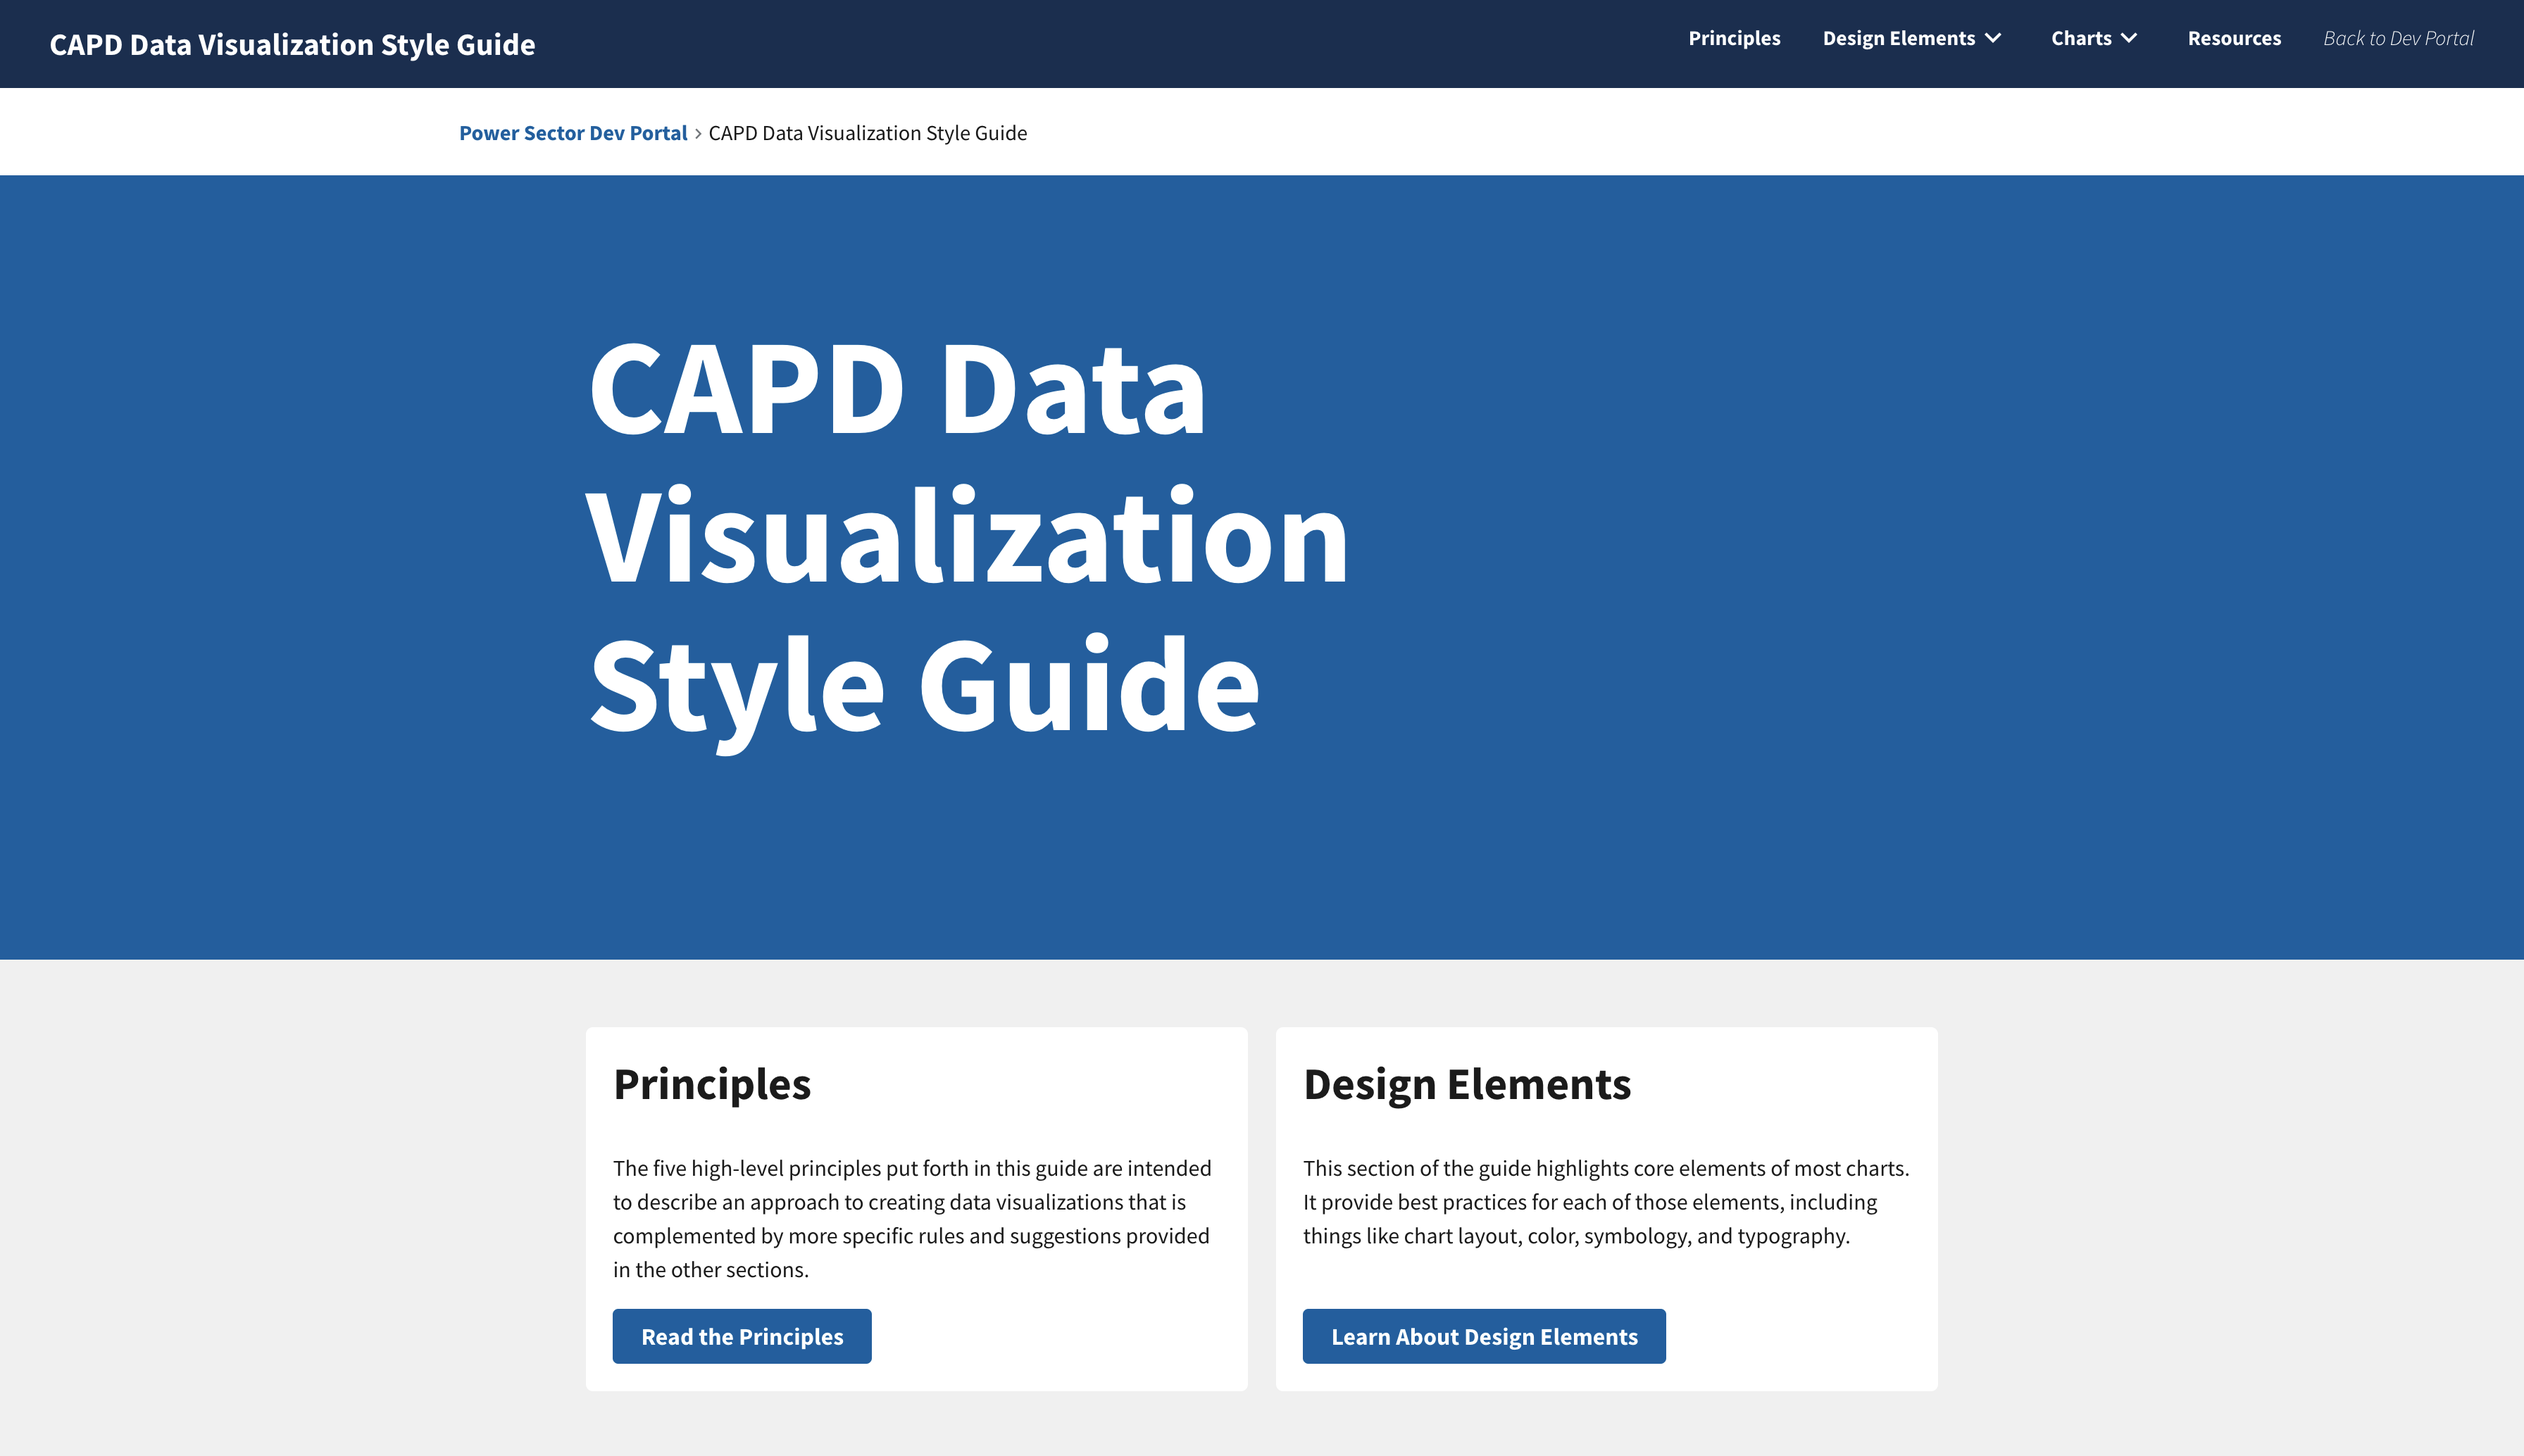
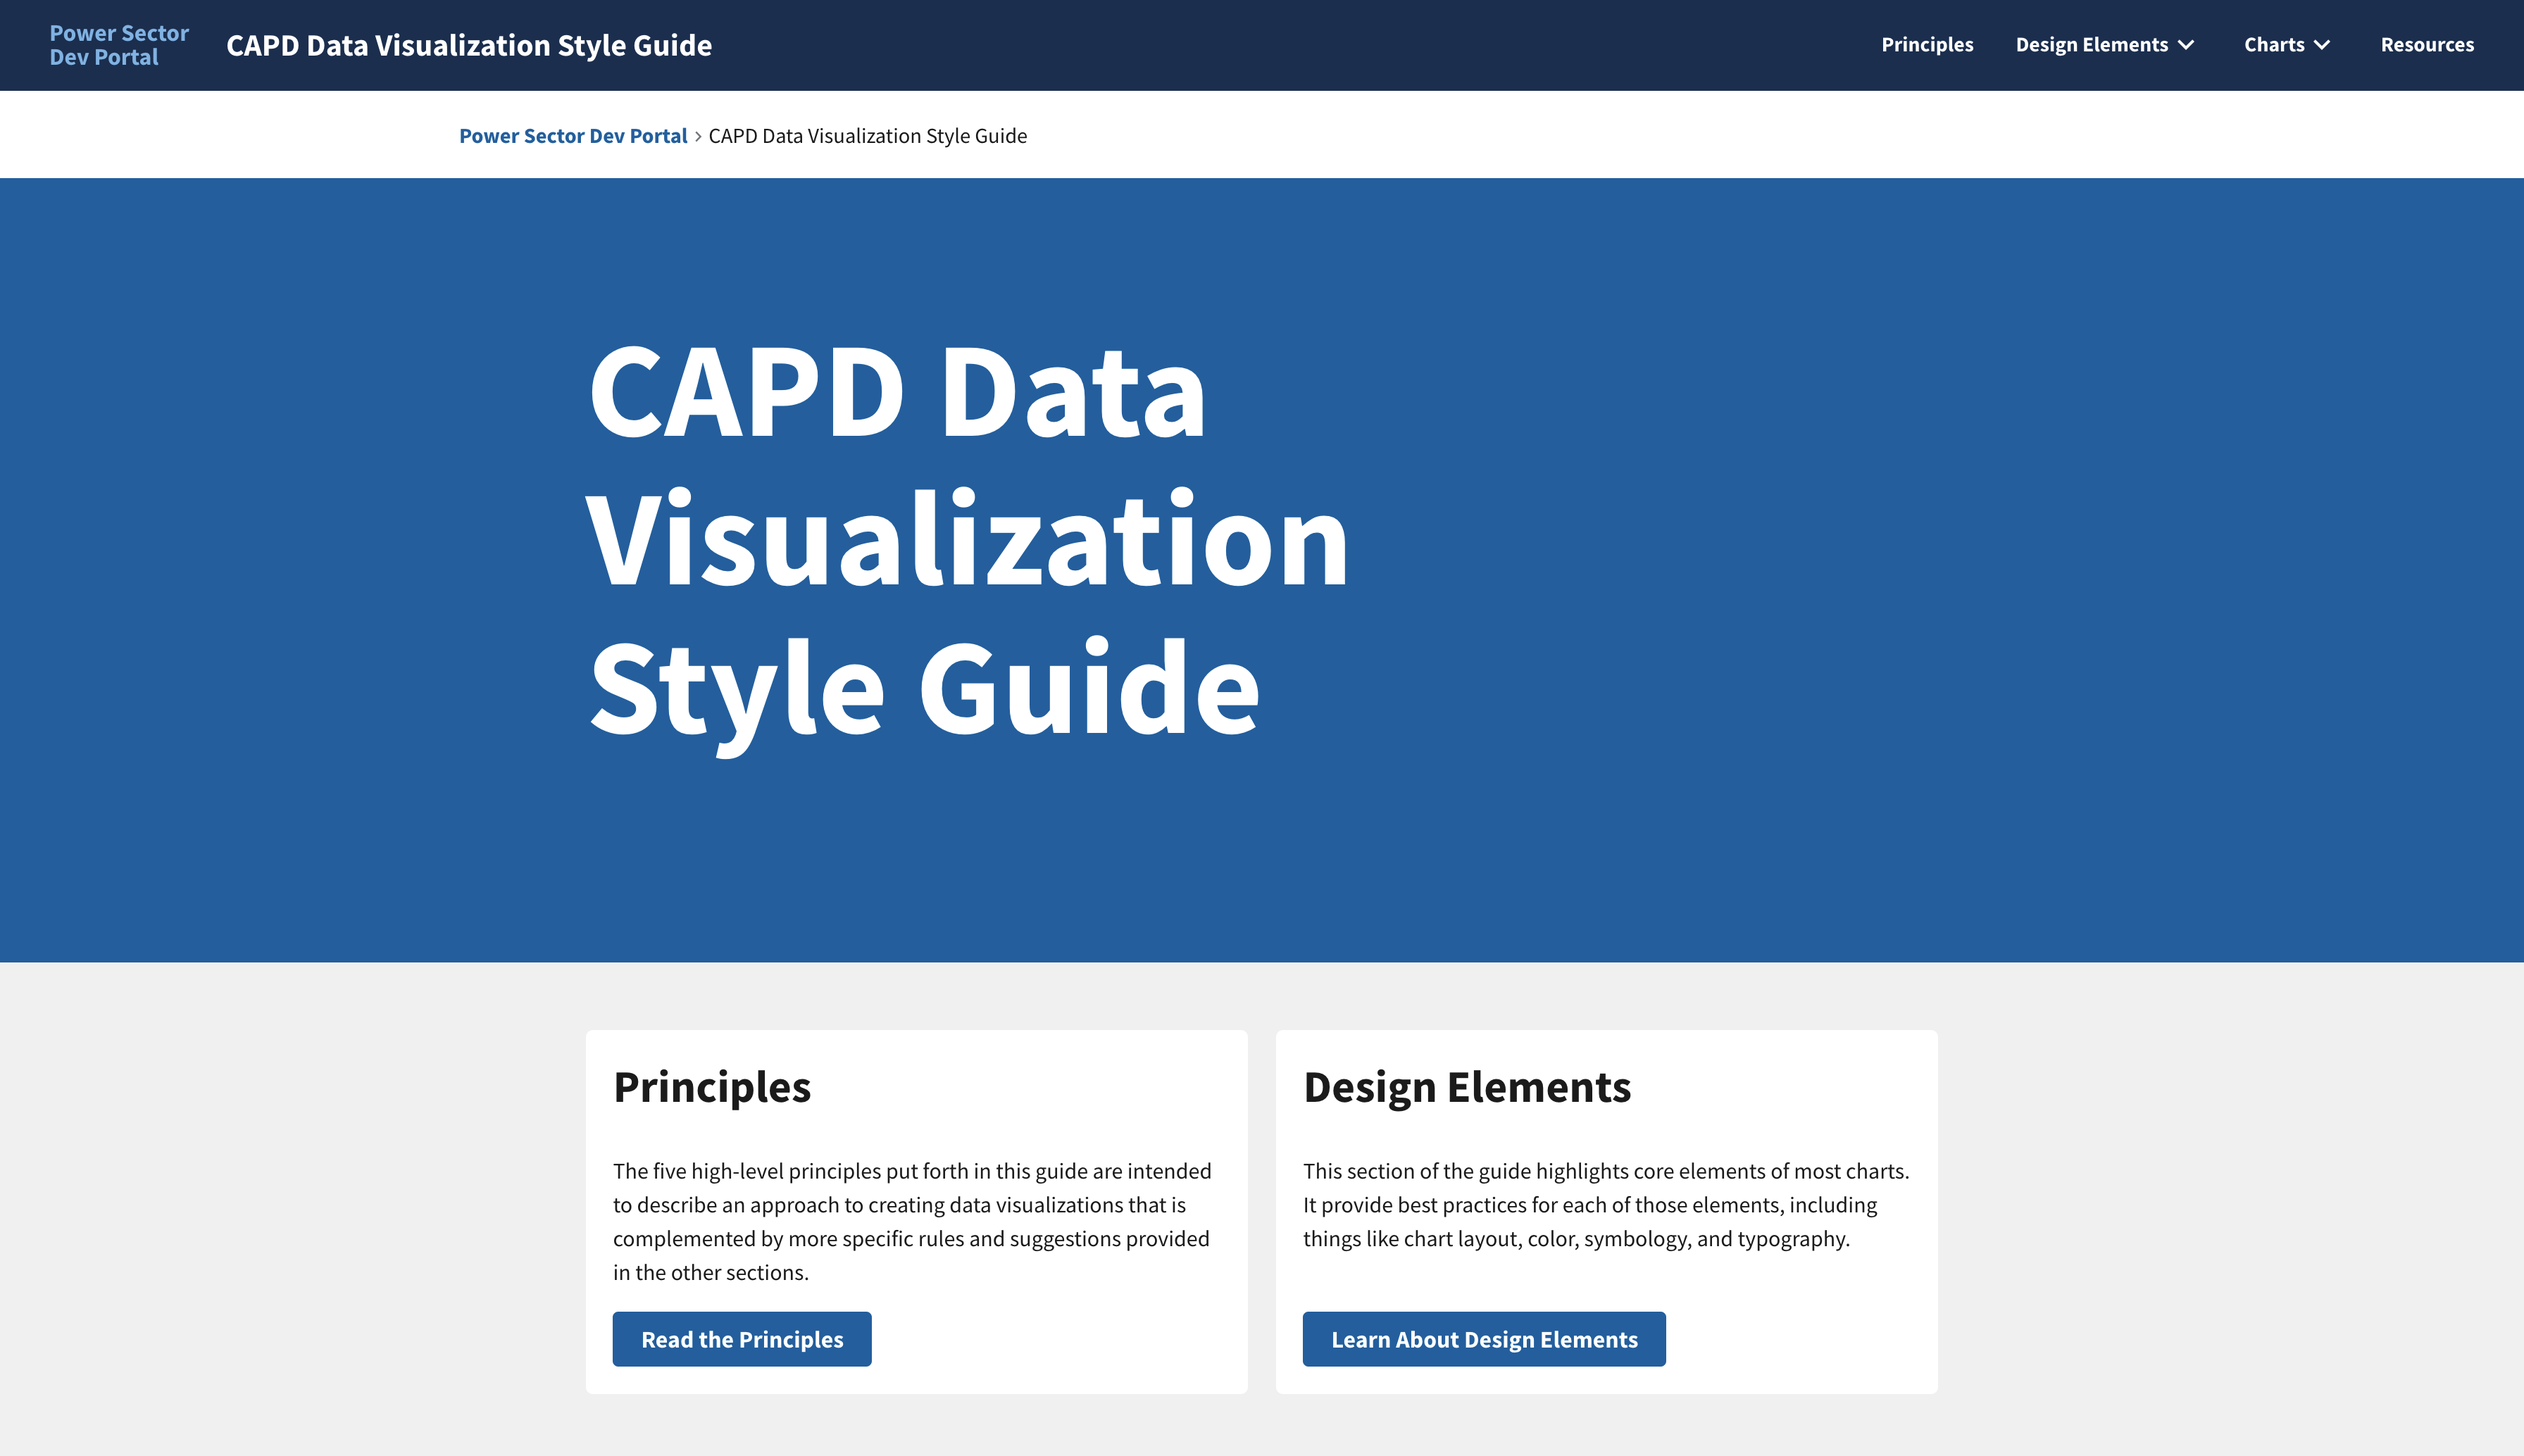
Updates DVSG screenshots

diff --git a/dvsg_case_study.html b/dvsg_case_study.html
@@ -174,8 +174,11 @@
                     <img class="scrollimage" src="css/DVSG_lines.png" alt="a screenshot showing the DVSG site's Line Charts page, showing best practices for labeling lines and using color in a line chart" onclick="window.open(this.src, '_blank');">
                     <p class="caption">This screenshot shows the Examples of Best Practices section of the Line Charts page.</p>
 
-                    <img class="scrollimage" src="css/DVSG_fuel_types.png" alt="a screenshot showing the DVSG's Color page, specifically showing a variety of categorical palettes for fuel types" onclick="window.open(this.src, '_blank');">
+                    <img class="scrollimage" src="css/DVSG_colors.png" alt="a screenshot showing the DVSG's Color page, specifically showing a variety of categorical palettes for fuel types" onclick="window.open(this.src, '_blank');">
                     <p class="caption">This screenshot shows the various color palettes we developed for commonly used fuel types.</p>
+
+                    <img class="scrollimage" src="css/DVSG_design_elem.png" alt="a screenshot showing the DVSG site's Design Elements page, showing options to learn about color, typography, symbology, and chart layout" onclick="window.open(this.src, '_blank');">
+                    <p class="caption">This screenshot shows the Design Elements page.</p>
 
                 </div>
             </div>
